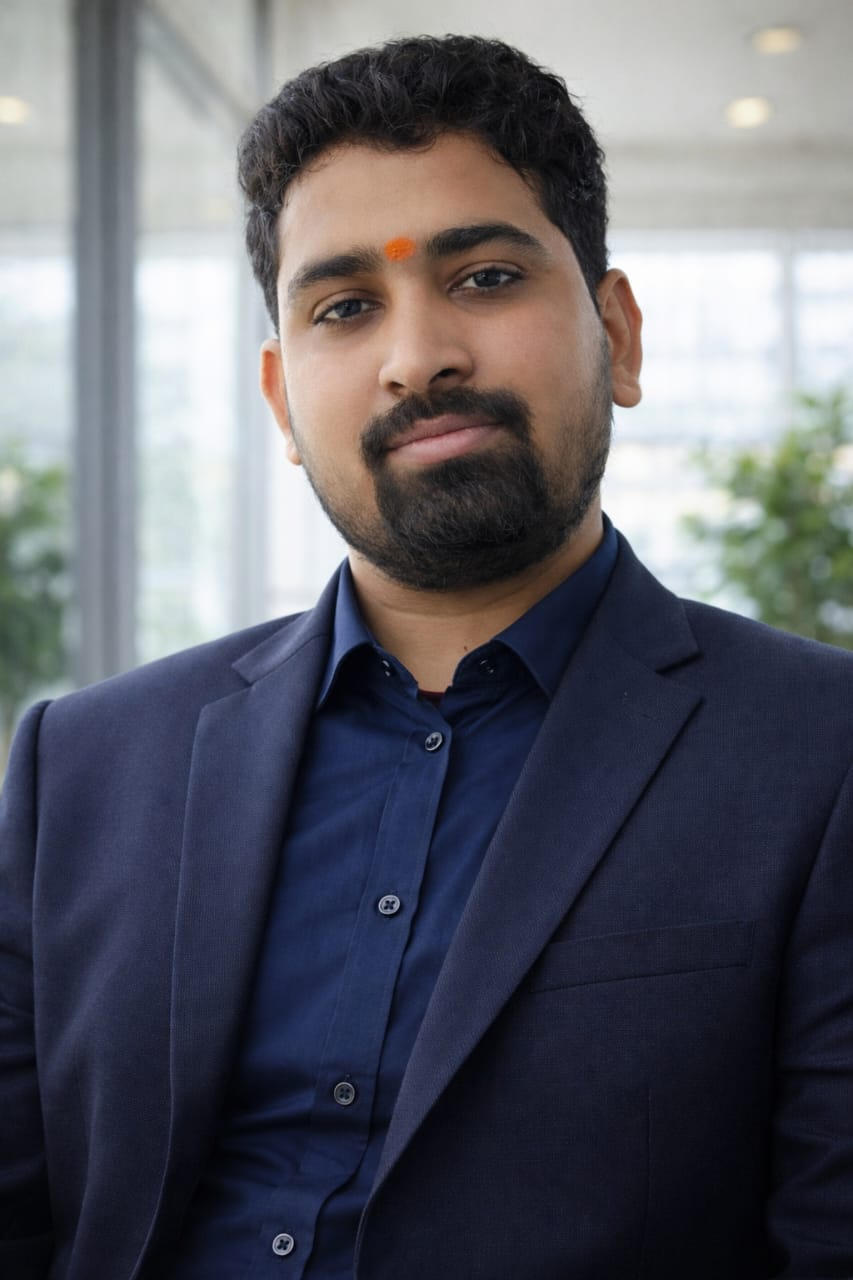
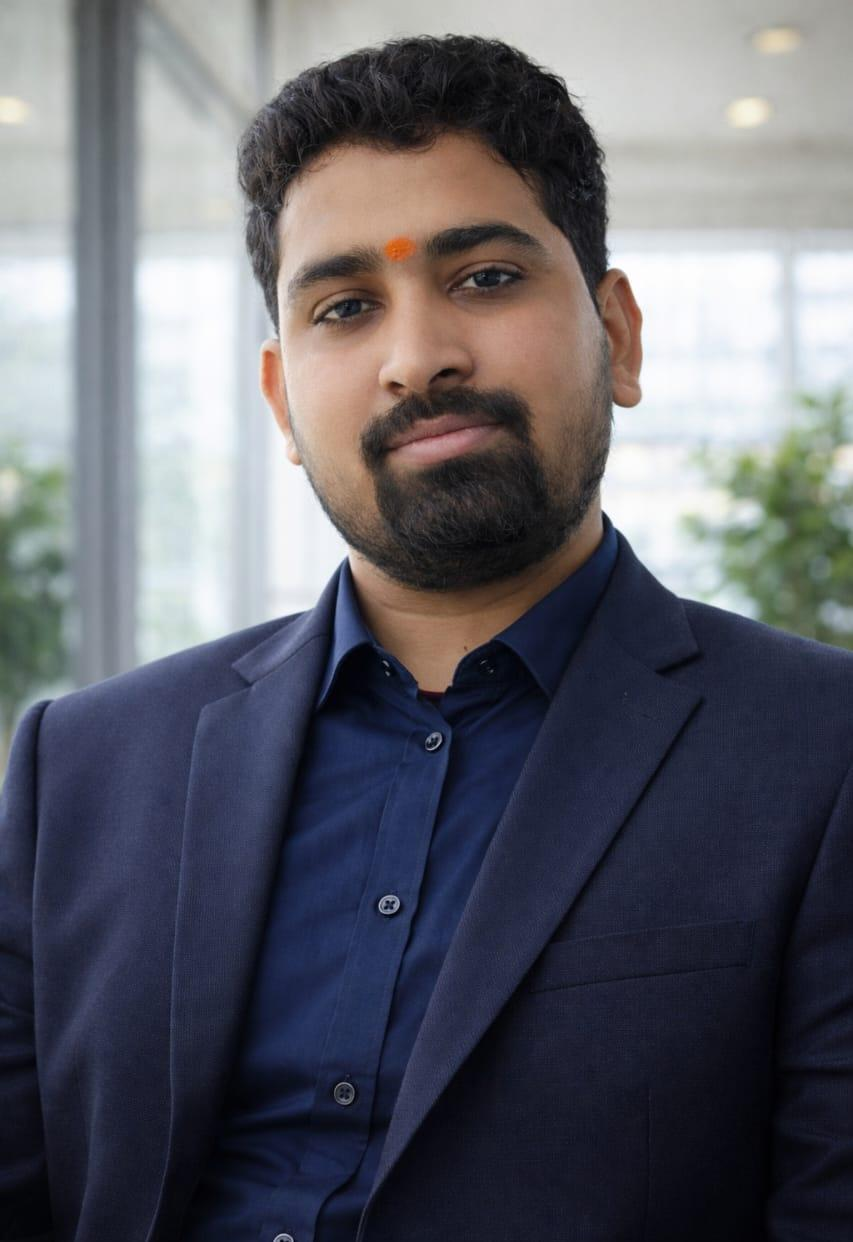
fix: remove watermark from profile photos and adjust About Me section to show full portrait

diff --git a/src/Components/About.jsx b/src/Components/About.jsx
@@ -1,4 +1,4 @@
-import React from 'react'
+
 import { Link } from 'react-router-dom'
 import { Terminal, Code, Database, Server, User, ArrowRight } from 'lucide-react'
 
@@ -27,18 +27,18 @@ const About = () => {
                     <div className="lg:col-span-5 flex flex-col space-y-6 items-center animate-fade-in" style={{ animationDelay: '0.2s' }}>
 
                         <div className="animate-rebound w-full flex justify-center">
-                            <div className="relative w-64 h-64 flex items-center justify-center group mb-6 animate-bounce-slow">
+                            <div className="relative w-64 h-96 flex items-center justify-center group mb-6 animate-bounce-slow">
                                 <div className="absolute inset-4 bg-gradient-to-tr from-purple-600/20 to-cyan-500/20 rounded-2xl opacity-50 blur-xl group-hover:opacity-80 transition-opacity duration-500 pointer-events-none" />
 
                                 <div className="absolute inset-6 border border-purple-500/40 rounded-2xl -translate-x-4 -translate-y-4 transition-transform duration-500 ease-out group-hover:translate-x-0 group-hover:translate-y-0" />
 
                                 <div className="absolute inset-6 border border-cyan-400/40 rounded-2xl translate-x-4 translate-y-4 transition-transform duration-500 ease-out group-hover:translate-x-0 group-hover:translate-y-0" />
 
-                                <div className="relative w-48 h-48 overflow-hidden rounded-2xl border border-white/10 group-hover:border-purple-500/40 shadow-xl shadow-purple-950/20 transition-all duration-500 bg-slate-950/80 z-10">
+                                <div className="relative w-48 h-80 overflow-hidden rounded-2xl border border-white/10 group-hover:border-purple-500/40 shadow-xl shadow-purple-950/20 transition-all duration-500 bg-slate-950/80 z-10">
                                     <img
                                         src="/profile.png"
                                         alt="Aman Verma"
-                                        className="w-full h-full object-cover object-top filter brightness-[0.98] contrast-[1.04] saturate-[1.02] transition-all duration-500 group-hover:scale-105"
+                                        className="w-full h-full object-cover object-center filter brightness-[0.98] contrast-[1.04] saturate-[1.02] transition-all duration-500 group-hover:scale-105"
                                         onError={(e) => {
                                             e.target.src = 'https://images.unsplash.com/photo-1539571696357-5a69c17a67c6?q=80&w=400&auto=format&fit=crop'
                                         }}
